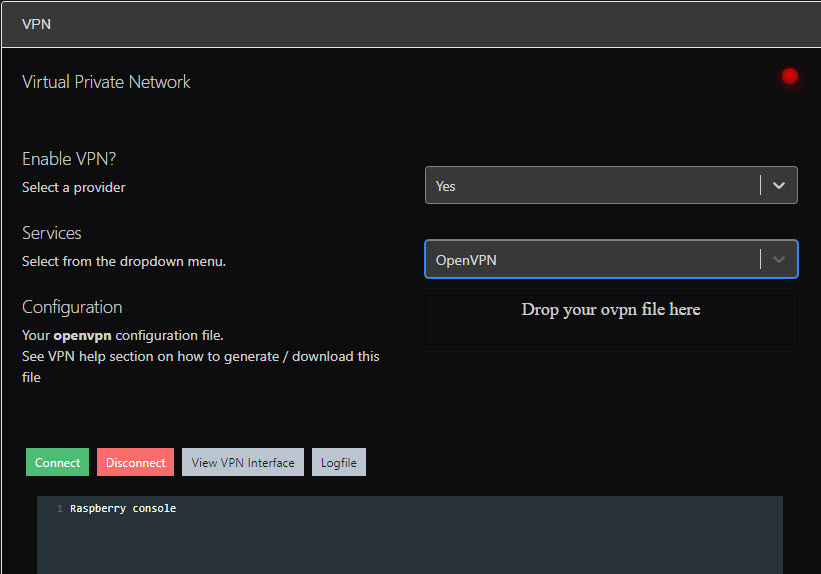
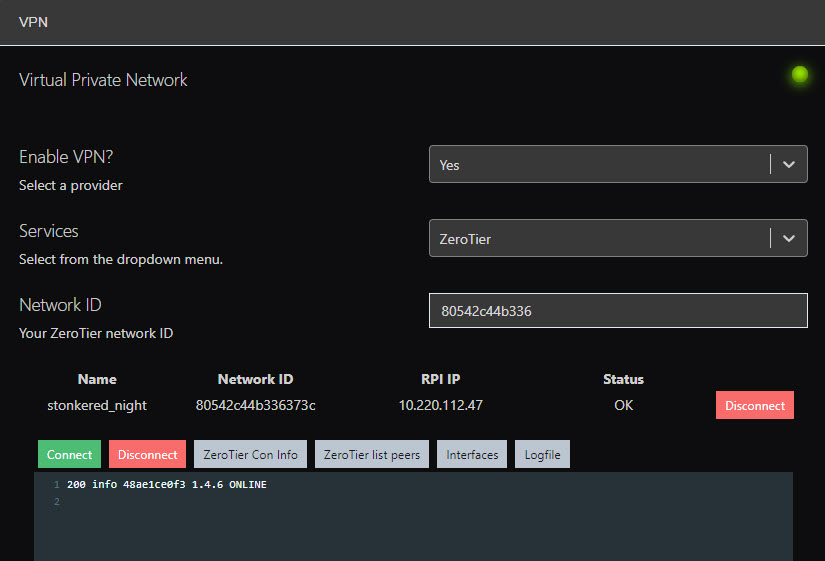
new version

diff --git a/docs/pages/Vpn.md b/docs/pages/Vpn.md
@@ -1,18 +1,21 @@
+UAVcast currently supports Zerotier and OpenVPN without the need for any additional software running on the Raspberry Pi.
 
+VPN page Overview
 !['VPN'](/images/pages/vpn/overview.jpg)
-
-UAVcast currently supports OpenVPN without the need for any additional software running on the Raspberry Pi.
-
-##OpenVPN
-
-OpenVPN routes all traffic between your devices through a server.
-You can setup a OpenVPN server or find a provider that can host it for you.
-
-For more information about setting up OpenVPN, please see the [Open VPN Wiki](https://community.openvpn.net/openvpn/wiki).
 
 ##Zerotier
 Zerotier establishes a direct connection between the connected devices, even if they are behind a NAT.
 
-UAVcast does not have this package pre-installed due to the license policy. Please refer to theirs site for installation and usage on your Raspberry Pi.
+!!! note 
+    Depending on your cellular providers NAT policy - if you are having issues with video streaming over UDP, try using a TCP for your connections or try OpenVPN.
 
 <iframe width="854" height="480" src="https://www.youtube.com/embed/p3DZxDkI5M0?rel=0" frameborder="0" allow="accelerometer; autoplay; encrypted-media; gyroscope; picture-in-picture" allowfullscreen></iframe>
+
+##OpenVPN
+
+OpenVPN connects devices togheter using server in-the-middle principle.
+You can setup a OpenVPN server or find a provider that can host it for you.
+
+For more information about setting up OpenVPN, please see the [Open VPN Wiki](https://community.openvpn.net/openvpn/wiki).
+
+
